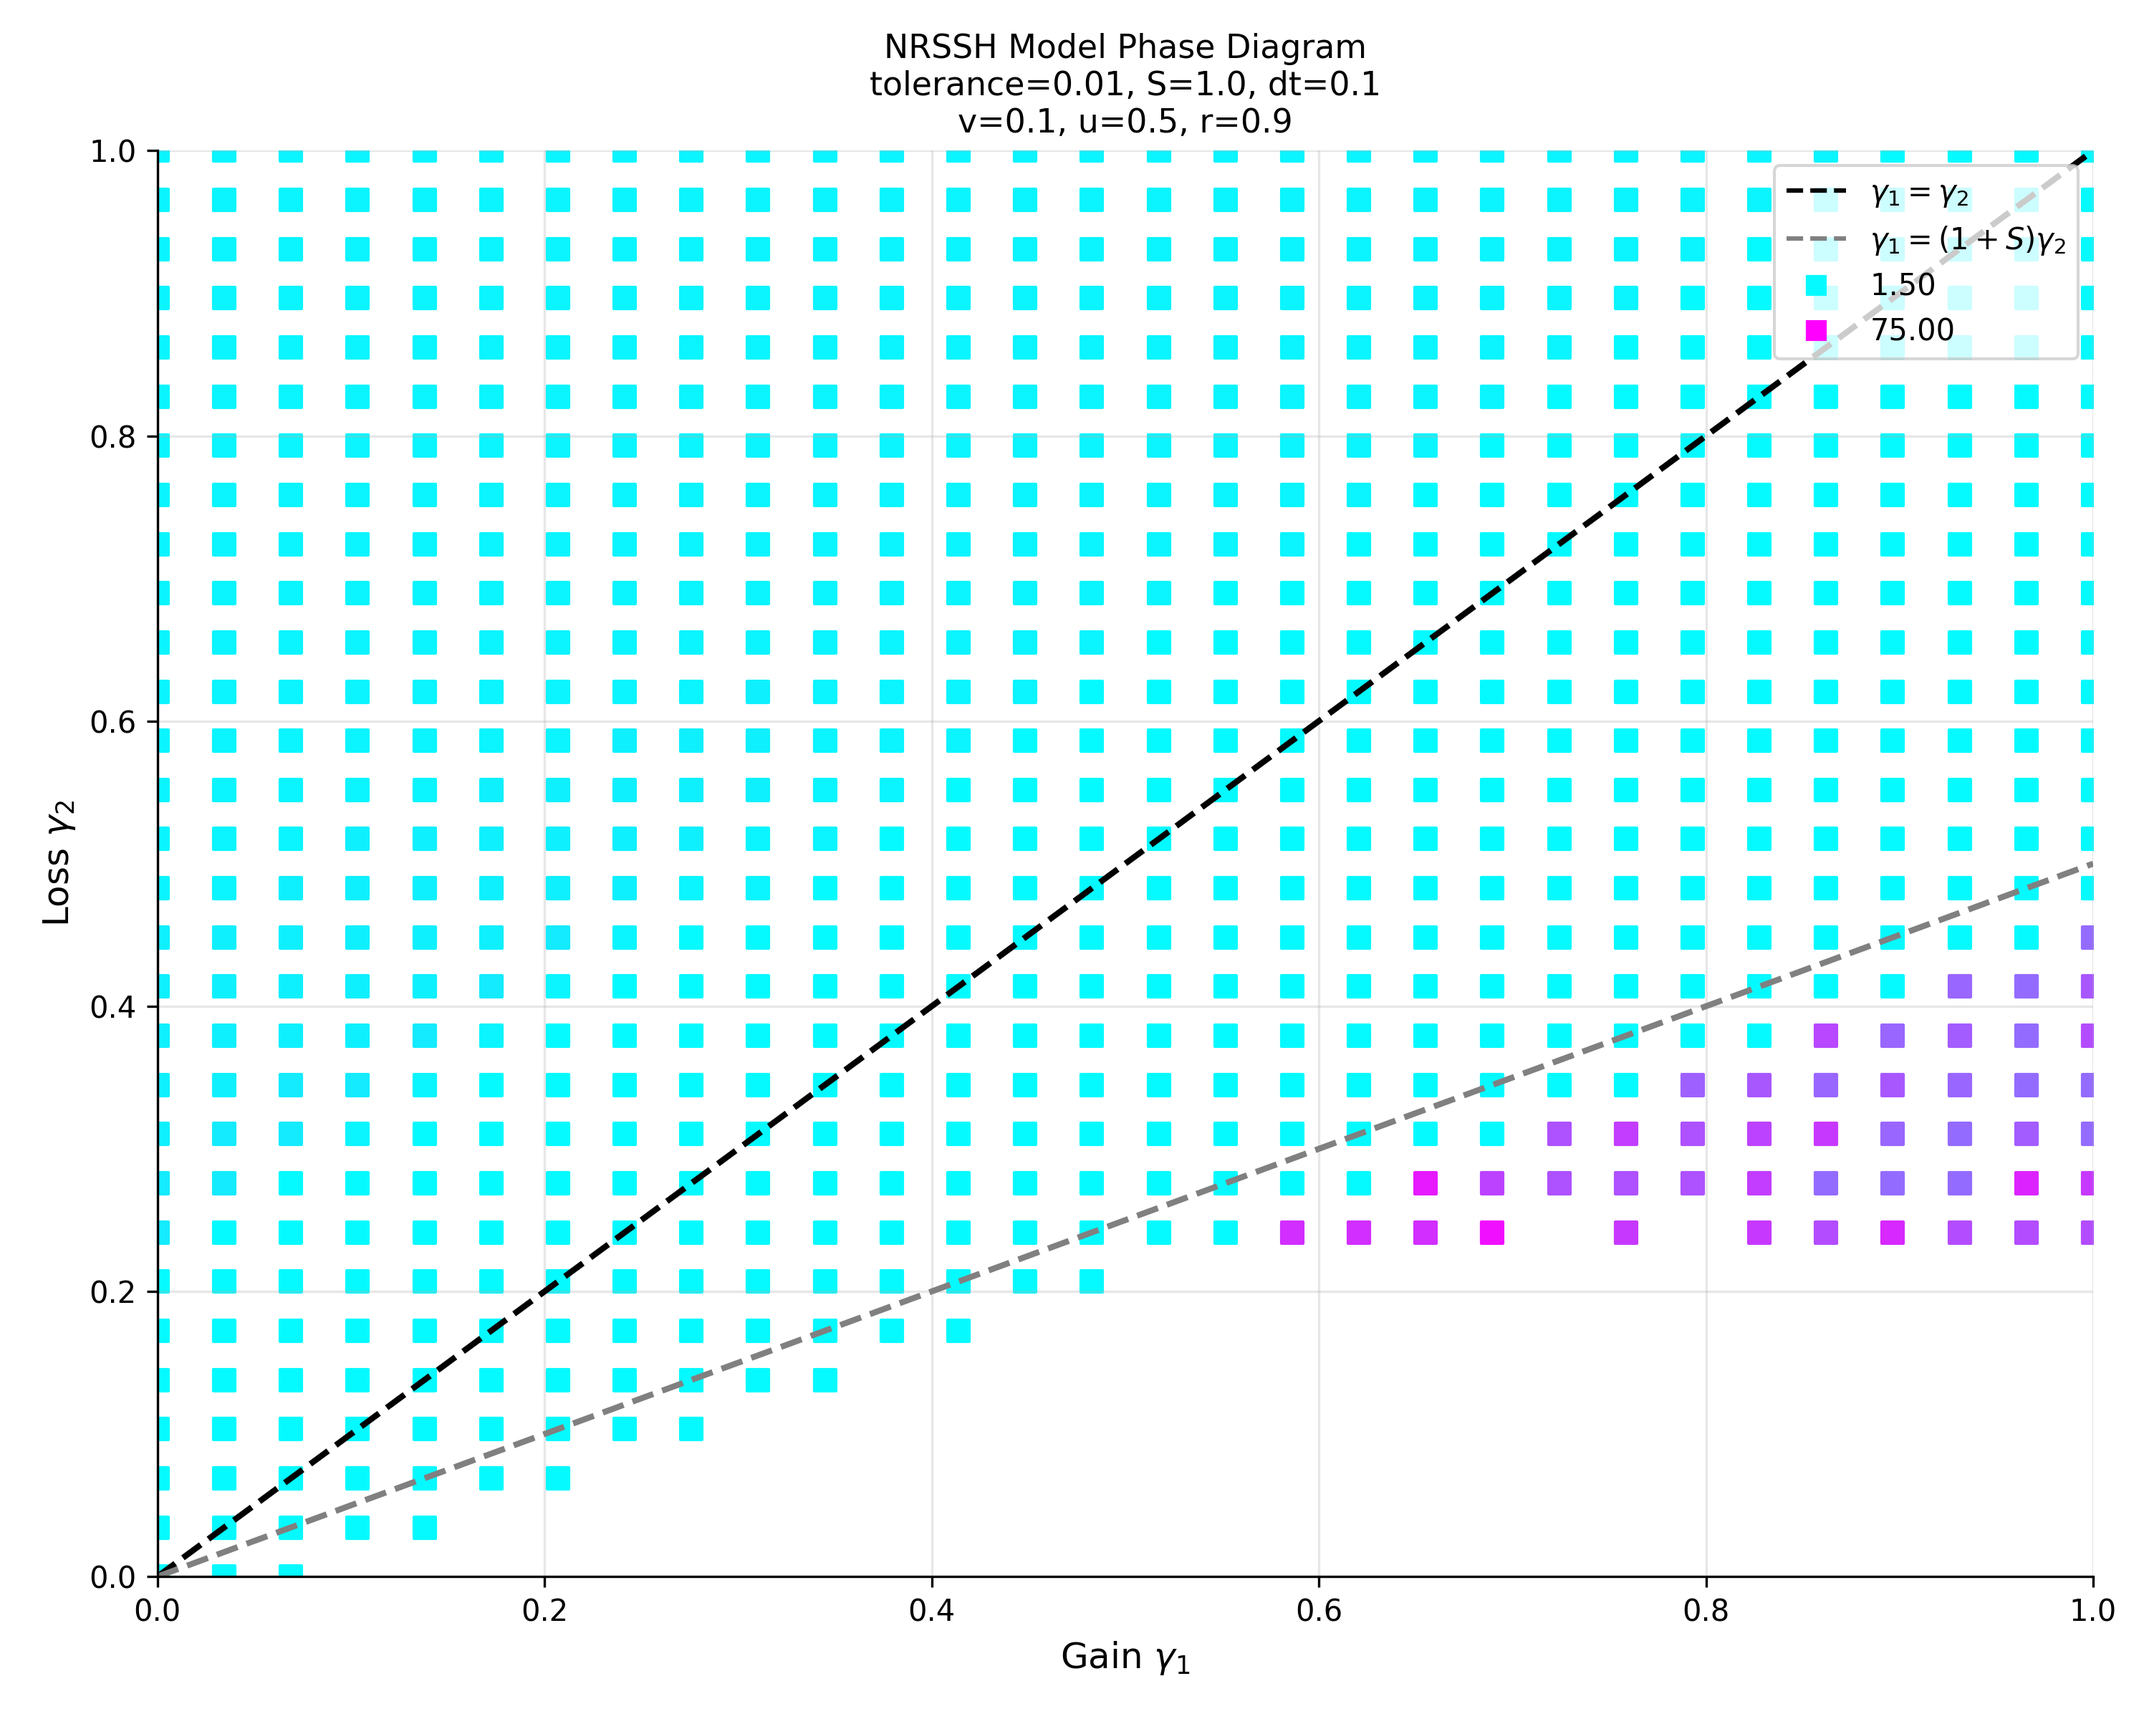
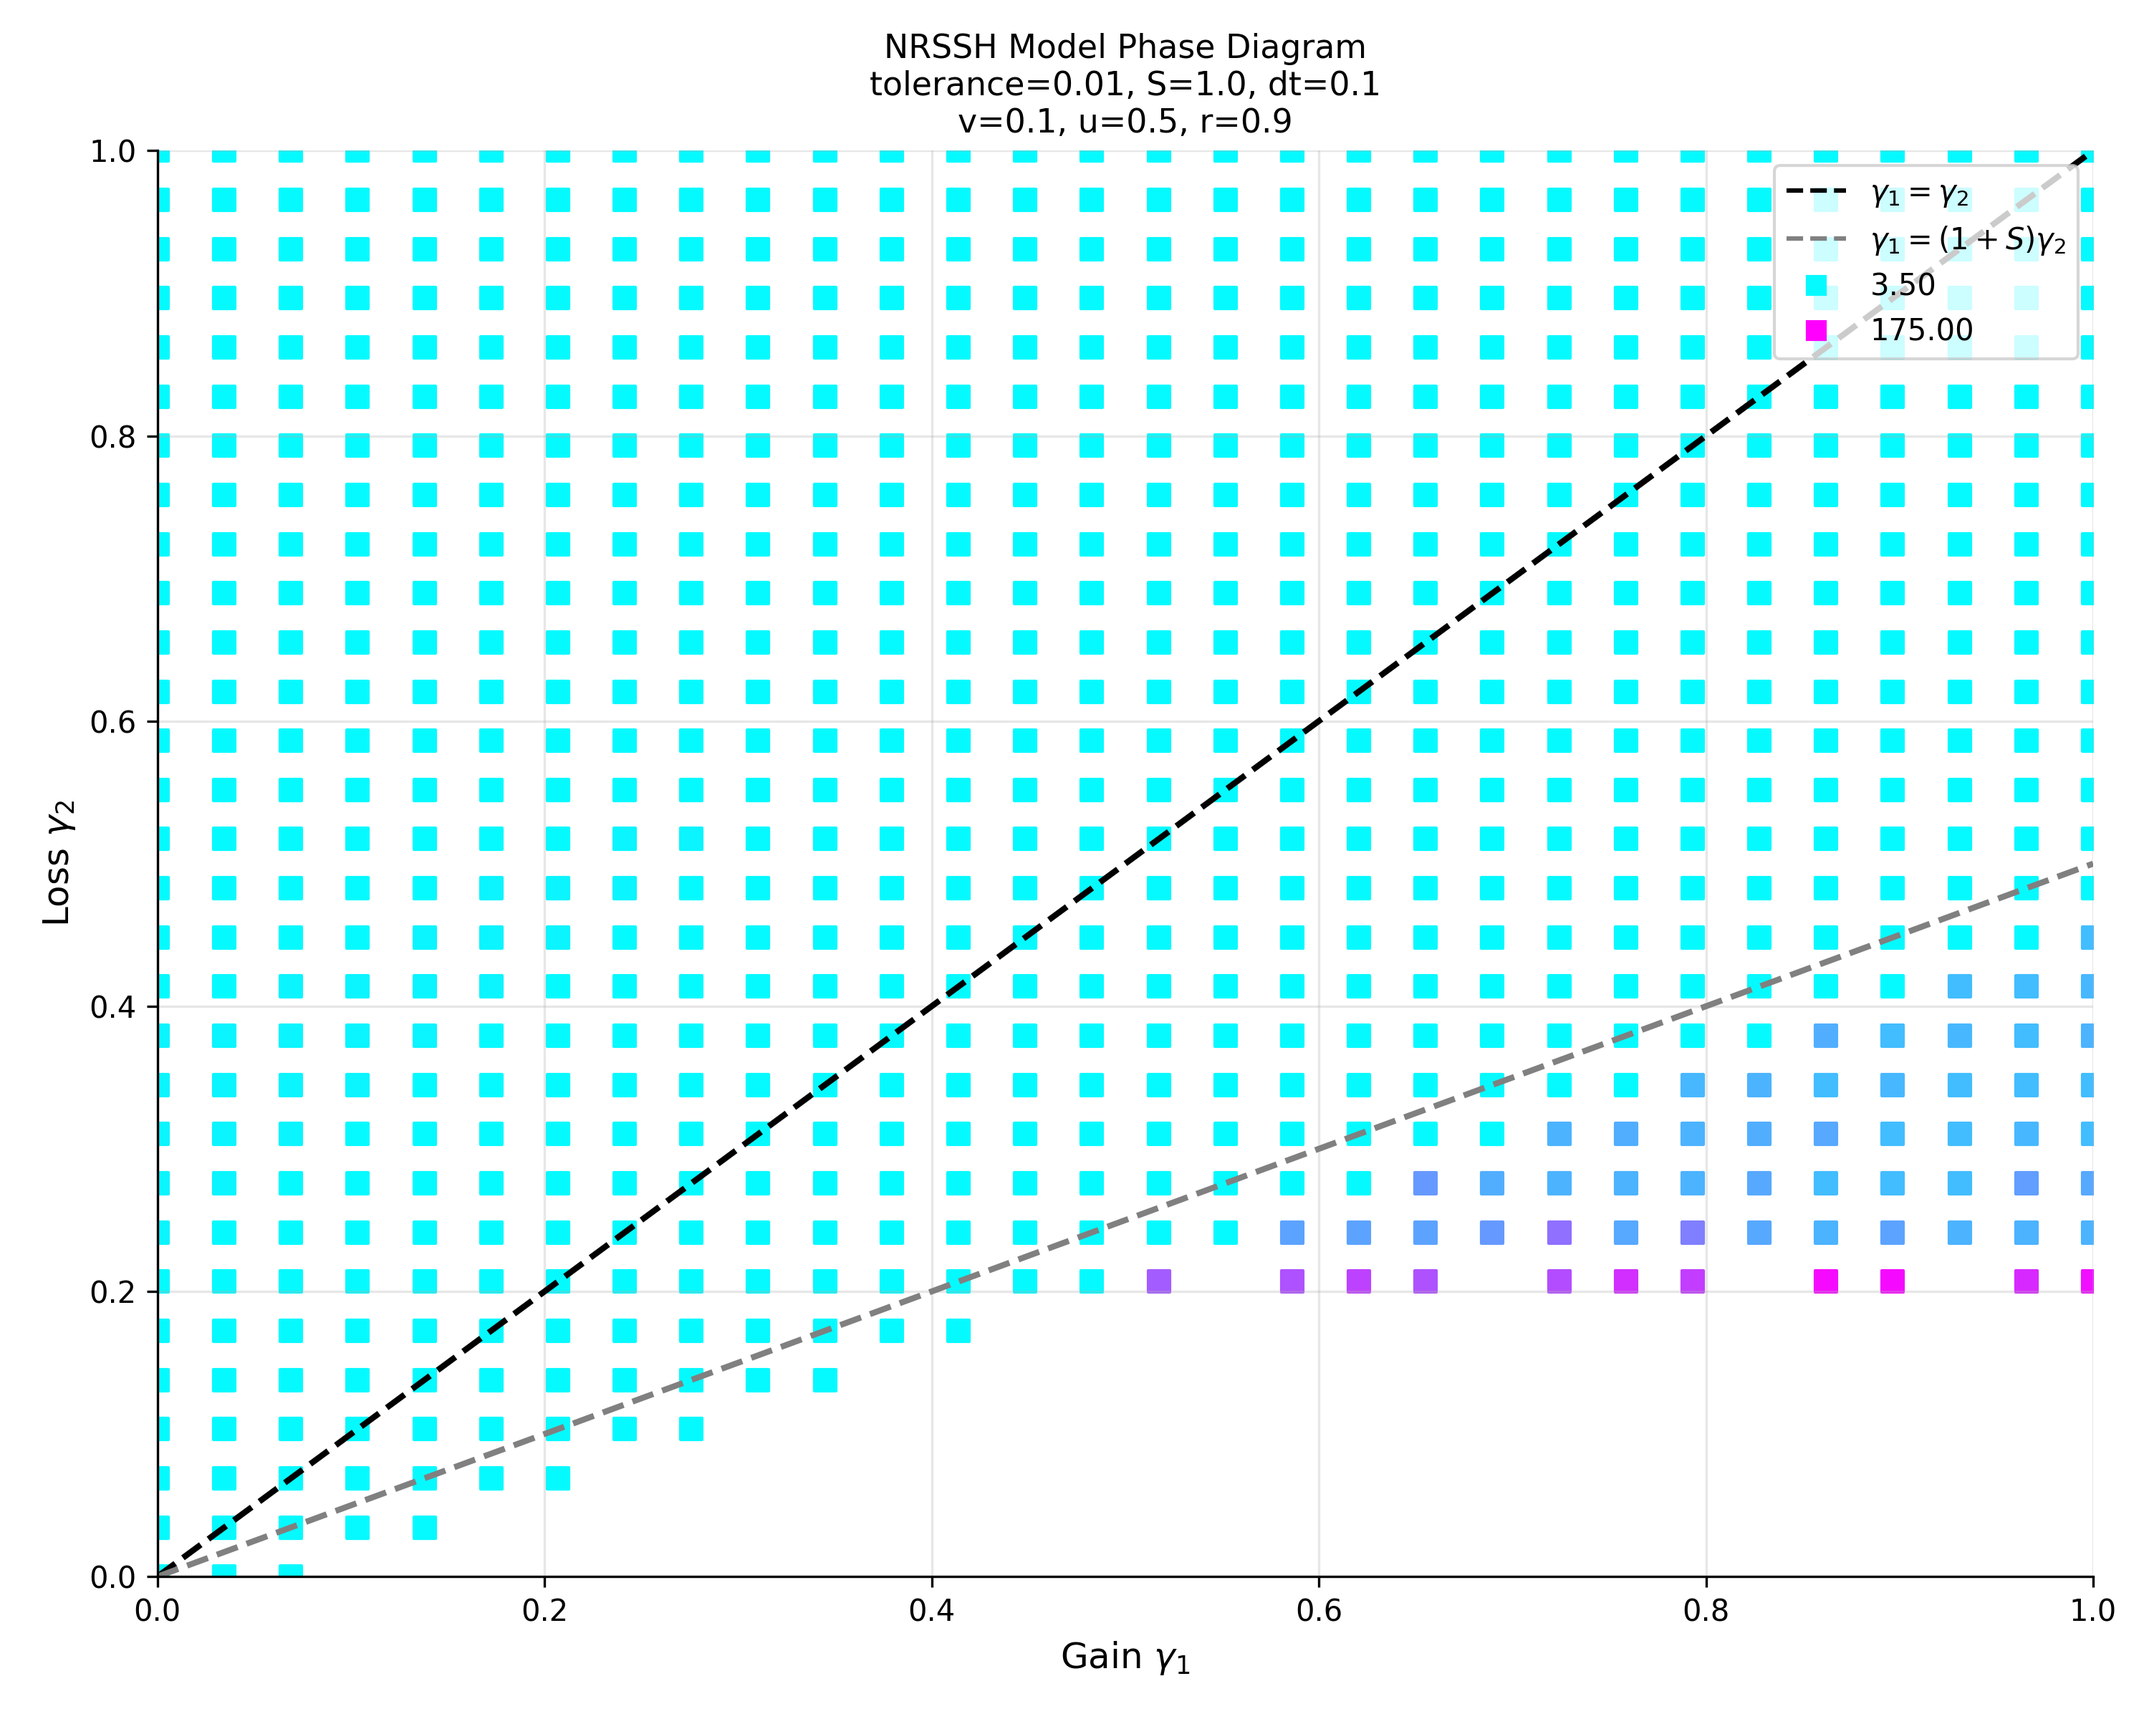
new image

Changed region(s): [[0.589, 0.5625, 0.992, 0.75], [0.868, 0.1562, 0.899, 0.2188], [0.527, 0.7188, 0.558, 0.75]]

diff --git a/example_tests/nrssh_examples/nrssh_phases.py b/example_tests/nrssh_examples/nrssh_phases.py
@@ -9,4 +9,4 @@ if __name__ == "__main__":
 
     # You can also run with custom parameters:
     # gamma1_arr, gamma2_arr, conv_times, conv_mask = plot_example_phase_diagram(
-    #     v=0.1, u=0.9, r=0.9, S=1.0, points=30, max_time=3.3, verbose=True)
+    #     v=0.3, u=0.5, r=0.7, S=1.0, points=30, max_time=175, verbose=True)

diff --git a/RESULTS.md b/RESULTS.md
@@ -37,12 +37,12 @@ An unsaturated optical laser system in this unstable phase would become too inte
   <img src="images/phases/nrssh_phases/tb_model/N=40_S=0.0_v=0.5_u=0.5_r=0.5.png" alt="Unsaturated NRSSH Phase Diagram" width="600">
 </p>
 
-Below is a NRSSH system that has a chaotic phase, where final times are limited to 125 units.
+Below is a NRSSH system that has a chaotic phase, where final times are limited to 175 units.
 Points in the chaotic phases appear to take a long time to reach a final state, and there is variation in final times among these points.
 Chaotic points are highly-sensitive to initial conditions.
 Realisations of systems in this phase can be used for short-pulse lasing, since slight changes in saturation and/or hopping strengths can drastically change the laser's intensities.
 <p align="center">
-  <img src="images/phases/nrssh_phases/nrssh_model/N=40_S=1.0_v=0.1_u=0.5_r=0.9.png" alt="NRSSH Phase Diagram with Chaotic Phases" width="600">
+  <img src="images/phases/nrssh_phases/nrssh_model/N=40_S=1.0_v=0.3_u=0.5_r=0.7.png" alt="NRSSH Phase Diagram with Chaotic Phases" width="600">
 </p>
 
 ### NRSSH Findings
